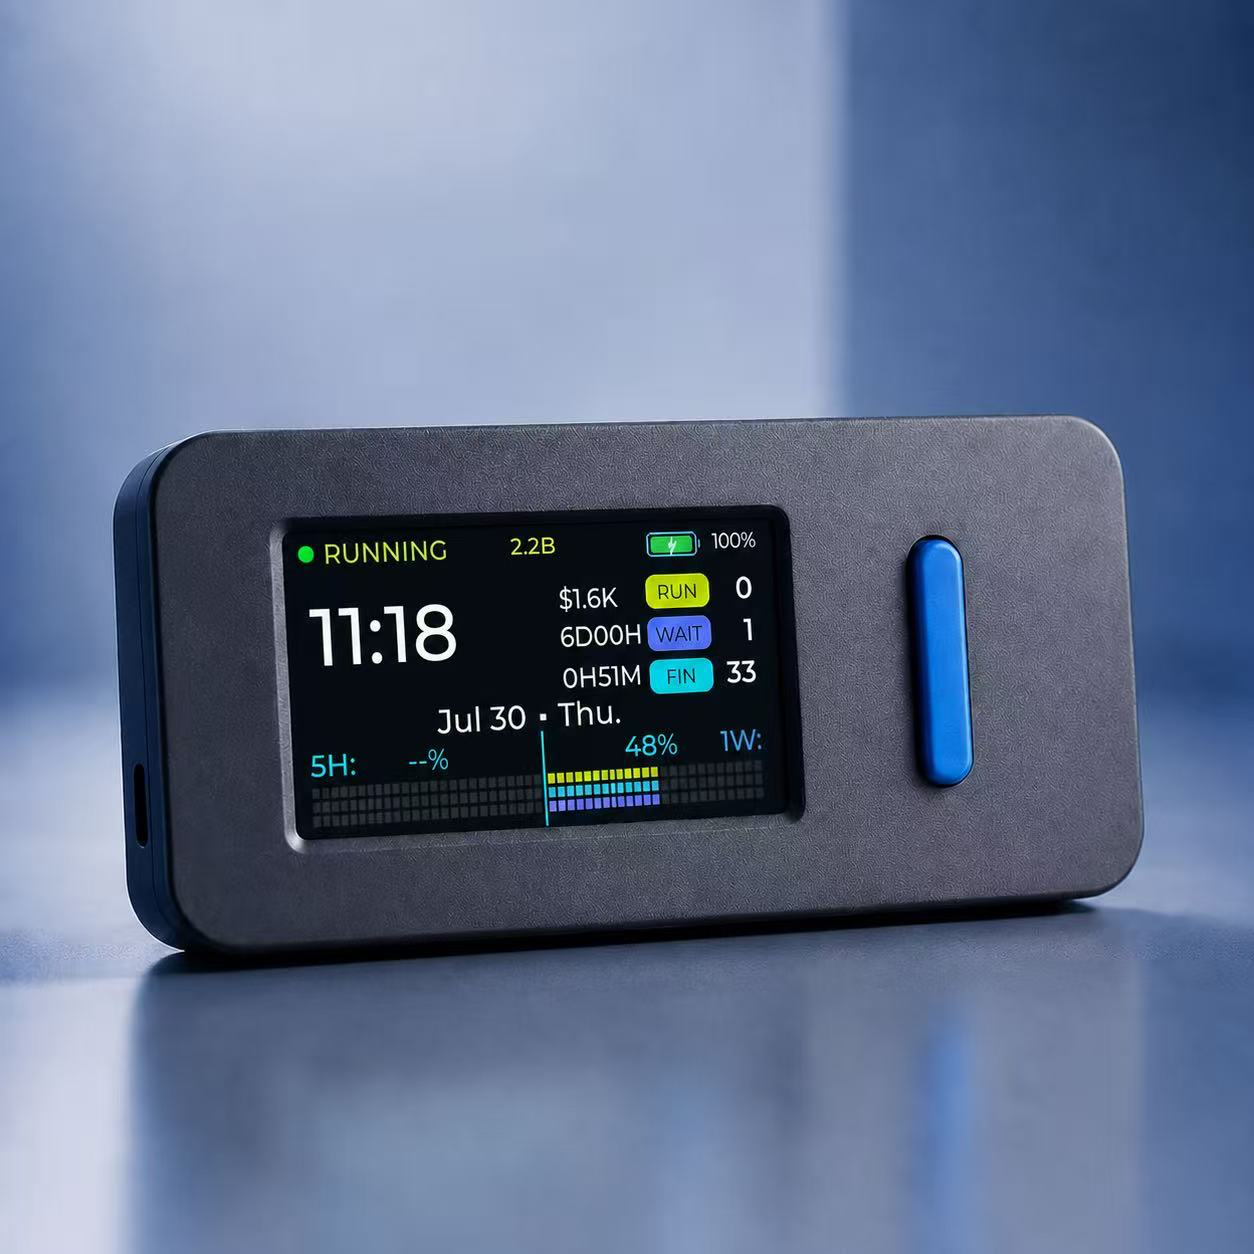
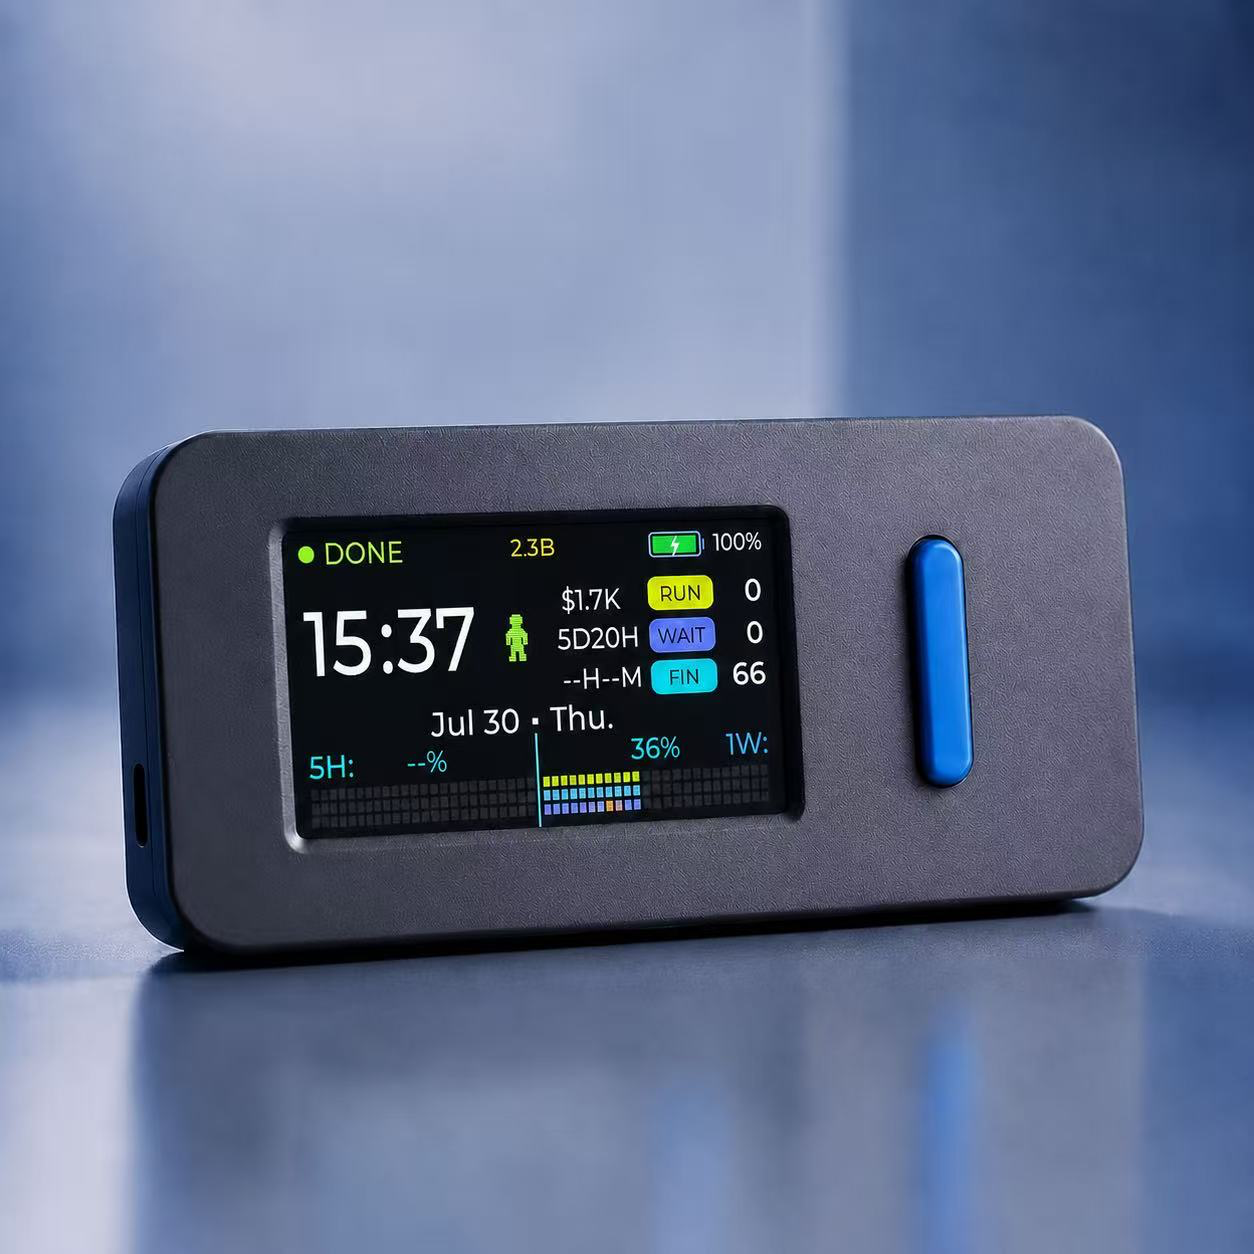
Document the v0.2.0 upgrade

Changed region(s): [[0.2177, 0.3421, 0.8708, 0.7464], [0.2799, 0.622, 0.311, 0.6531]]

diff --git a/README.md b/README.md
@@ -8,6 +8,7 @@
   </p>
   <p>
     <a href="#overview">Overview</a> ·
+    <a href="#whats-new-in-v020">v0.2.0</a> ·
     <a href="#install">Install</a> ·
     <a href="#configuration">Configuration</a> ·
     <a href="#troubleshooting">Troubleshooting</a> ·
@@ -19,11 +20,50 @@
     <img alt="Hardware: M5Stack StickS3" src="https://img.shields.io/badge/hardware-M5Stack%20StickS3-EA1D2C">
     <img alt="Platform: macOS" src="https://img.shields.io/badge/platform-macOS-111111">
     <img alt="ESP-IDF: 5.5" src="https://img.shields.io/badge/ESP--IDF-5.5-E7352C">
+    <img alt="Version: 0.2.0" src="https://img.shields.io/badge/version-0.2.0-F3A712">
     <img alt="License: MIT" src="https://img.shields.io/badge/license-MIT-3DA639">
   </p>
   <br>
   <img src="assets/screenshots/vibestick-codex-portrait-dashboard-v2.png" alt="VibeStick-Codex portrait dashboard product render" width="480">
 </div>
+
+## What's new in v0.2.0
+
+Released on August 1, 2026. Download the firmware and view the complete notes
+on the [v0.2.0 release page](https://github.com/oliverxing2025/VibeStick-Codex/releases/tag/v0.2.0).
+
+Compared with v0.1.5:
+
+- **Animated task states:** the landscape dashboard now shows a running pixel
+  character while Codex works, a waiting character for human approval, and a
+  celebration when a task finishes.
+- **Reliable approval status:** a pending permission or approval now takes
+  priority over ordinary recent activity, so the device enters `WAITING`
+  instead of continuing to appear as `RUNNING`.
+- **Refined landscape layout:** the clock, battery, monthly Token value, task
+  counts, and quota particle matrix are resized and realigned for the compact
+  StickS3 display.
+- **Clearer Token meaning:** the README now explains that the monthly value is
+  input plus output tokens, including cached context within input tokens. It
+  is processed activity—not an OpenAI subscription quota or actual bill.
+- **Complete animation assets:** reviewed source sheets, device previews, and
+  firmware-ready sprites for `RUNNING`, `WAITING`, and `DONE` are included.
+- **Unified 0.2.0 versioning:** firmware, Bridge, protocol examples, hardware
+  documentation, issue templates, and release notes now use the same version.
+
+### Upgrade paths
+
+| Download | Flash offset | Use it when | What it preserves |
+| --- | ---: | --- | --- |
+| `VibeStick-Codex-v0.2.0-app.bin` | `0x320000` | Updating the Codex slot on an already verified Codex + Hourglass dual-app device | Keeps the Hourglass slot, partition table, OTA metadata, and NVS untouched |
+| `VibeStick-Codex-v0.2.0-full-install.bin` | `0x0` | Clean standalone installation, or intentionally replacing the existing firmware layout | Replaces the bootloader, partition table, OTA metadata, and application at `0x20000` |
+
+> [!WARNING]
+> Verify the physical device identity, partition layout, image, and offset
+> before writing. On a dual-app device, update Codex only with the application
+> image at `0x320000`; writing the full image replaces the multi-firmware
+> layout. Public release binaries contain no Wi-Fi, Bridge, or API secrets and
+> therefore start offline until a private configuration is rebuilt locally.
 
 ## Overview
 

diff --git a/README.zh-CN.md b/README.zh-CN.md
@@ -8,6 +8,7 @@
   </p>
   <p>
     <a href="#项目概览">项目概览</a> ·
+    <a href="#v020-更新与升级说明">v0.2.0</a> ·
     <a href="#安装">安装</a> ·
     <a href="#配置说明">配置</a> ·
     <a href="#常见问题排查">排查</a> ·
@@ -19,11 +20,45 @@
     <img alt="硬件：M5Stack StickS3" src="https://img.shields.io/badge/hardware-M5Stack%20StickS3-EA1D2C">
     <img alt="平台：macOS" src="https://img.shields.io/badge/platform-macOS-111111">
     <img alt="ESP-IDF：5.5" src="https://img.shields.io/badge/ESP--IDF-5.5-E7352C">
+    <img alt="版本：0.2.0" src="https://img.shields.io/badge/version-0.2.0-F3A712">
     <img alt="许可证：MIT" src="https://img.shields.io/badge/license-MIT-3DA639">
   </p>
   <br>
   <img src="assets/screenshots/vibestick-codex-portrait-dashboard-v2.png" alt="VibeStick-Codex 竖屏仪表盘产品效果图" width="480">
 </div>
+
+## v0.2.0 更新与升级说明
+
+发布于2026年8月1日。固件下载和完整发布说明见
+[v0.2.0 Release](https://github.com/oliverxing2025/VibeStick-Codex/releases/tag/v0.2.0)。
+
+相对 v0.1.5，本版本主要更新如下：
+
+- **任务状态小人动画：**横屏在 Codex 工作时显示跑步小人，等待人工批准时
+  显示等待小人，任务完成时显示庆祝动画。
+- **WAIT 状态判断更可靠：**待处理的权限或批准请求优先于普通近期活动，设备会
+  正确进入 `WAITING`，不会继续误显示为 `RUNNING`。
+- **横屏布局重新整理：**时钟、电池、当月 Token、任务计数和额度颗粒矩阵均按
+  StickS3 紧凑屏幕重新调整尺寸与位置。
+- **Token 含义更清楚：**当月数值是输入 Token 加输出 Token，缓存上下文包含在
+  输入 Token 内；它表示模型总处理量，不是 OpenAI 订阅额度或实际账单。
+- **动画素材完整收录：**仓库新增经过检查的源图、设备预览和固件 Sprite，覆盖
+  `RUNNING`、`WAITING`、`DONE` 三种状态。
+- **版本号统一为 0.2.0：**固件、Bridge、协议示例、硬件文档、问题模板和发布
+  说明使用同一版本号。
+
+### 升级方式
+
+| 下载文件 | 写入地址 | 适用场景 | 保留内容 |
+| --- | ---: | --- | --- |
+| `VibeStick-Codex-v0.2.0-app.bin` | `0x320000` | 已确认身份和布局的 Codex + Hourglass 双固件设备，仅更新 Codex 槽位 | 不改动 Hourglass 槽、分区表、OTA 元数据和 NVS |
+| `VibeStick-Codex-v0.2.0-full-install.bin` | `0x0` | 全新独立安装，或明确要替换现有固件布局 | 会替换 bootloader、分区表、OTA 元数据和 `0x20000` 应用 |
+
+> [!WARNING]
+> 写入前必须核对实体设备身份、分区布局、镜像和地址。双固件设备更新 Codex 时
+> 只能把应用镜像写入 `0x320000`；完整镜像会替换多固件布局。公开发布固件不含
+> Wi-Fi、Bridge 或 API 私密配置，因此首次启动会保持离线，需要在本地加入私人
+> 配置后重新构建。
 
 ## 项目概览
 
